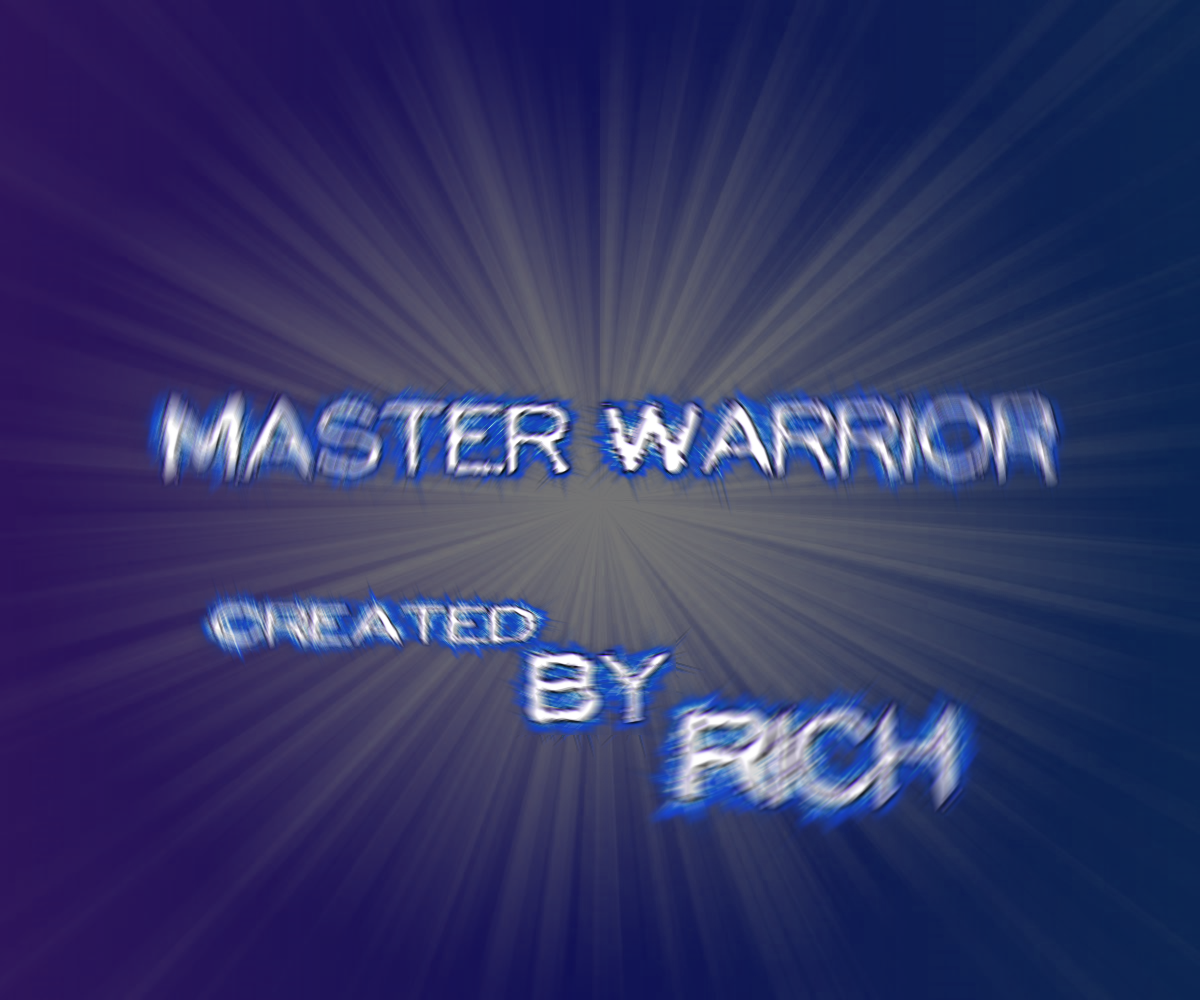
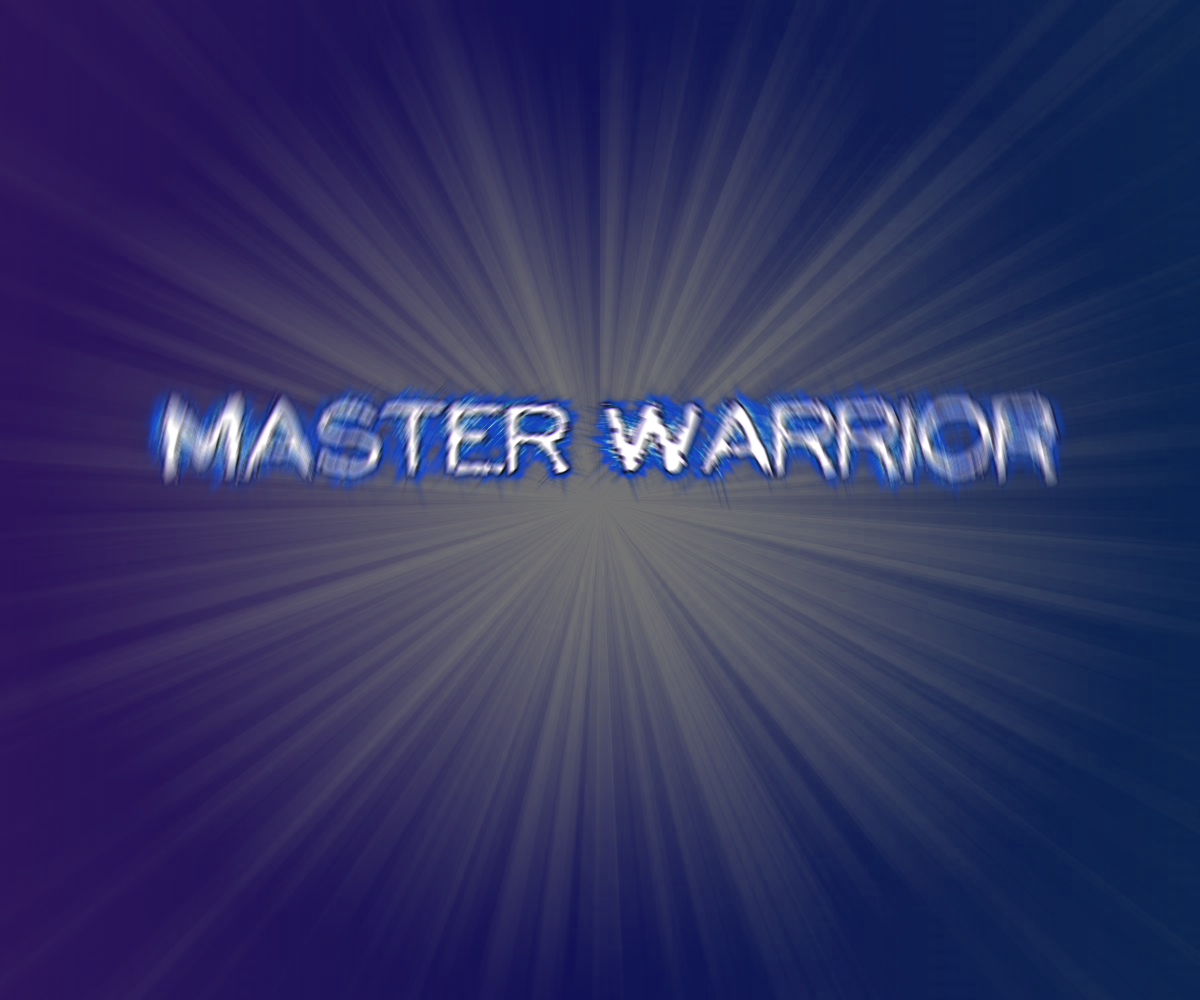
Initial commit - with fadeing splash screen

Changed region(s): [[0.1542, 0.589, 0.8325, 0.837]]

diff --git a/core/src/com/reigens/screens/Splash.java b/core/src/com/reigens/screens/Splash.java
@@ -1,21 +1,15 @@
 package com.reigens.screens;
 
 
-import aurelienribon.tweenengine.BaseTween;
 import aurelienribon.tweenengine.Tween;
-import aurelienribon.tweenengine.TweenCallback;
 import aurelienribon.tweenengine.TweenManager;
-import com.badlogic.gdx.Game;
 import com.badlogic.gdx.Gdx;
 import com.badlogic.gdx.Screen;
 import com.badlogic.gdx.graphics.GL20;
 import com.badlogic.gdx.graphics.Texture;
 import com.badlogic.gdx.graphics.g2d.Sprite;
 import com.badlogic.gdx.graphics.g2d.SpriteBatch;
-import com.badlogic.gdx.math.MathUtils;
 import com.reigens.tween.SpriteAccessor;
-
-
 
 /**
  * Created by Rich on 8/8/2014.
@@ -29,7 +23,6 @@ public class Splash implements Screen
     @Override
     public void render(float delta)
     {
-        delta = MathUtils.clamp(delta, 0, 1 / 30f);
         Gdx.gl.glClearColor(0, 0, 0, 1);
         Gdx.gl.glClear(GL20.GL_COLOR_BUFFER_BIT);
 
@@ -38,52 +31,42 @@ public class Splash implements Screen
         batch.begin();
         splash.draw(batch);
         batch.end();
+
     }
 
     @Override
     public void resize(int width, int height)
     {
-        splash.setSize(width, height);
+
     }
 
     @Override
     public void show()
     {
-        //Load Preferences
-        Gdx.graphics.setVSync(SettingsScreen.vSync());
-
         batch = new SpriteBatch();
-
+        tweenManager = new TweenManager();
         Tween.registerAccessor(Sprite.class, new SpriteAccessor());
 
         Texture splashTexture = new Texture("background.png");
         splash = new Sprite(splashTexture);
         splash.setSize(Gdx.graphics.getWidth(), Gdx.graphics.getHeight());
-        tweenManager = new TweenManager();
+
         Tween.set(splash, SpriteAccessor.ALPHA).target(0).start(tweenManager);
-        Tween.to(splash, SpriteAccessor.ALPHA, 1).target(1).repeatYoyo(1, 0.5f).setCallback(new TweenCallback()
+        Tween.to(splash, SpriteAccessor.ALPHA, 2).target(1).repeatYoyo(1, 2).start(tweenManager);
 
-        {
-            @Override
-            public void onEvent(int i, BaseTween<?> baseTween)
-            {
-                ((Game) Gdx.app.getApplicationListener()).setScreen(new MainMenu());
-            }
-        }).start(tweenManager);
 
-        tweenManager.update(Float.MIN_VALUE);
     }
 
     @Override
     public void hide()
     {
-        dispose();
+
     }
 
     @Override
     public void pause()
     {
-        tweenManager.pause();
+
     }
 
     @Override

diff --git a/core/src/com/reigens/MasterWarrior.java b/core/src/com/reigens/MasterWarrior.java
@@ -1,12 +1,16 @@
 package com.reigens;
 
 import com.badlogic.gdx.Game;
+import com.badlogic.gdx.graphics.Texture;
+import com.badlogic.gdx.graphics.g2d.SpriteBatch;
 import com.reigens.screens.Splash;
 
 public class MasterWarrior extends Game
 {
     public static final String TITLE = "Master Warrior";
     public static final String VERSION = "0.0.0.2";
+    SpriteBatch batch;
+	Texture img;
 	
 	@Override
 	public void create () {
@@ -24,11 +28,14 @@ public class MasterWarrior extends Game
 	super.render();
 	}
 
+
     @Override
     public void resize(int width, int height)
     {
 super.resize(width, height);
     }
+
+
 
     @Override
     public void pause()
